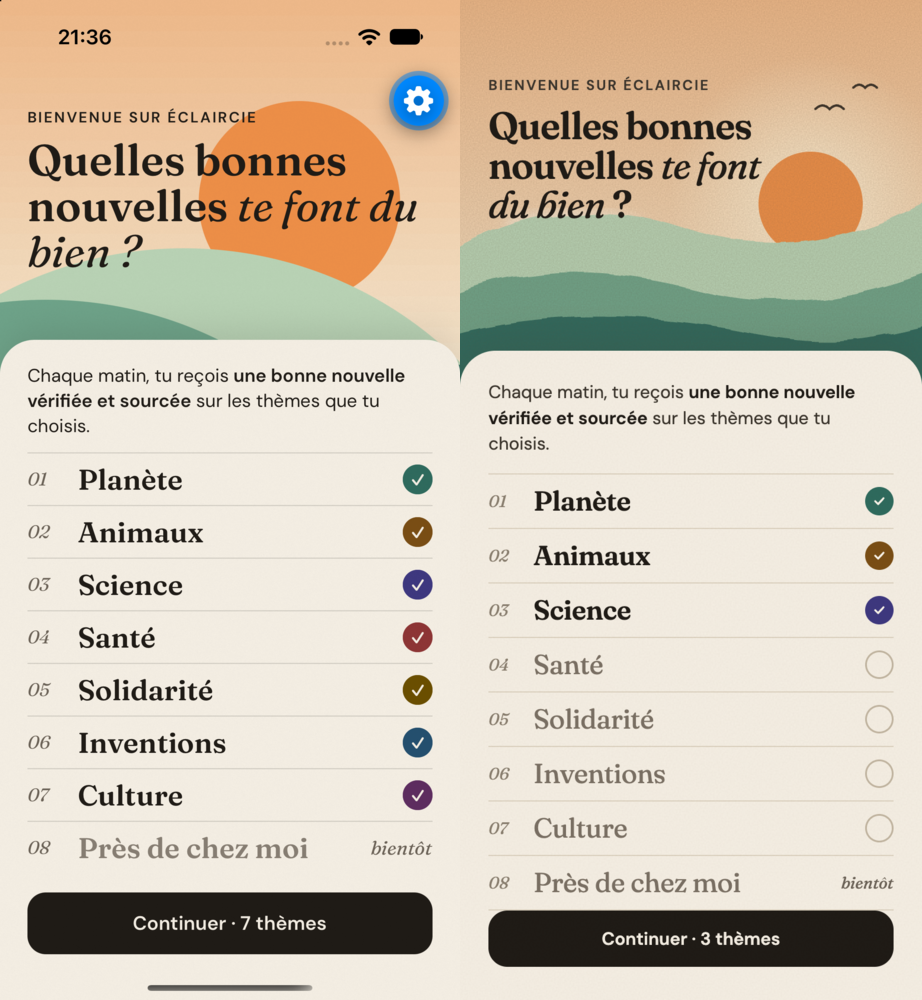
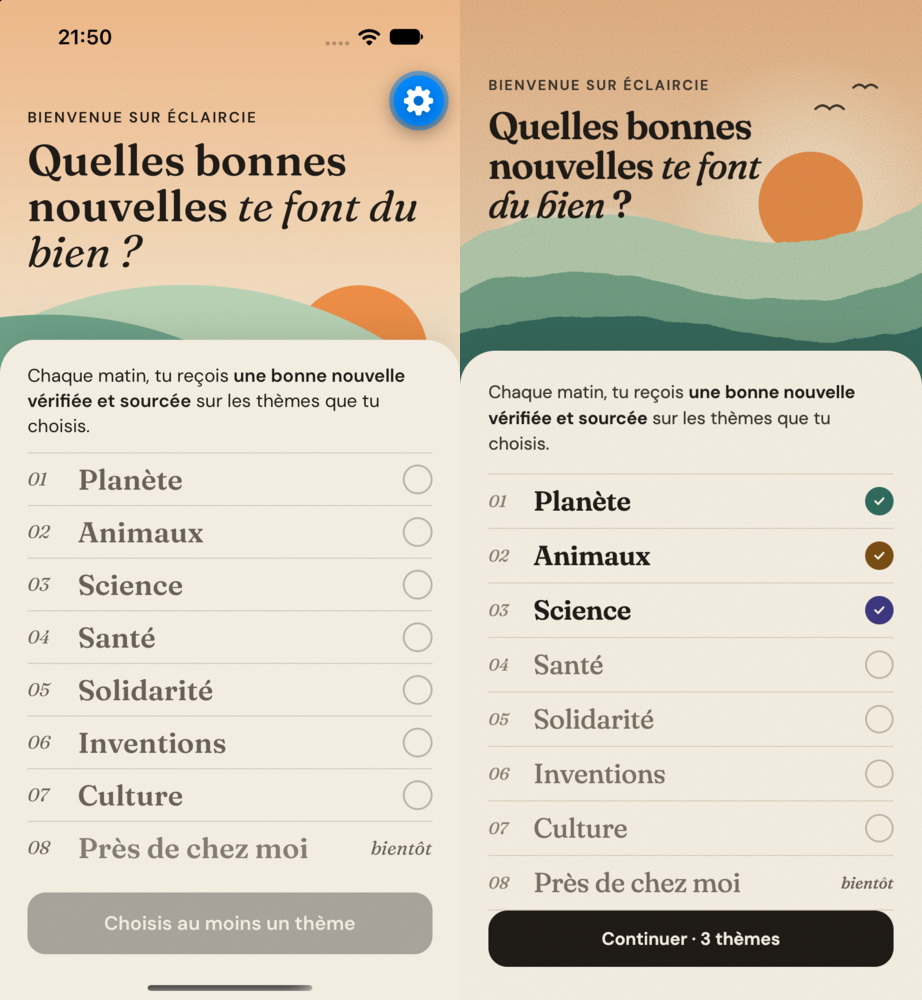
onboarding : aucun thème coché au départ, soleil sous le titre, palette du dernier thème coché
- Bouton « Choisis au moins un thème » désactivé à zéro, puis « Continuer · N thème(s) ».
- Le soleil du bandeau se cale sous le titre mesuré, à droite, et se couche derrière les collines,
  quelle que soit la hauteur d'écran ; les collines suivent.
- Le ciel prend la palette du dernier thème coché ; décocher revient au précédent, sinon la palette
  par défaut (logique pure testée).
- Petits écrans (iPhone SE vérifié) : la liste défile dans la feuille, le bouton reste fixé en bas.
- EXPO_PUBLIC_DEMO_ONBOARDING=auto joue le parcours seul pour les captures.

diff --git a/app/src/screens/onboarding/OnboardingFlow.tsx b/app/src/screens/onboarding/OnboardingFlow.tsx
@@ -1,7 +1,7 @@
-import { useState } from "react";
+import { useEffect, useRef, useState } from "react";
 import { Alert } from "react-native";
 import { requestNotificationPermission, scheduleDailyNotification } from "@/lib/notifications.ts";
-import { DEFAULT_NOTIFY, toggleTheme, validateProfile } from "@/lib/onboarding.ts";
+import { DEFAULT_NOTIFY, paletteThemeId, toggleTheme, validateProfile } from "@/lib/onboarding.ts";
 import { deviceTimezone, saveProfile } from "@/lib/profile.ts";
 import type { Theme } from "@/types.ts";
 import { ThemesStep } from "./ThemesStep.tsx";
@@ -10,32 +10,35 @@ import { TimeStep } from "./TimeStep.tsx";
 interface Props {
   userId: string;
   themes: readonly Theme[];
-  /** Profil existant (variable de dev) : la sélection repart de lui. */
-  initial?: { themes: readonly string[]; hour: number; minute: number } | undefined;
   /** Étape de départ (variable de dev pour capturer l'écran 2 directement). */
   initialStep?: "themes" | "time";
+  /** Démonstration : joue le parcours tout seul (coches, décoche, heure, validation). */
+  autoplay?: boolean;
   onDone: () => void;
 }
 
+/** Scénario de démonstration : [délai en ms, action]. */
+type Scripted = (actions: { toggle: (index: number) => void; next: () => void; hour: (hour: number) => void; confirm: () => void }) => void;
+const AUTOPLAY: [number, Scripted][] = [
+  [1200, (a) => a.toggle(0)], [1900, (a) => a.toggle(2)], [2600, (a) => a.toggle(1)], [3400, (a) => a.toggle(2)],
+  [4400, (a) => a.next()], [5600, (a) => a.hour(9)], [6800, (a) => a.confirm()],
+];
+
 /**
- * Onboarding (écrans 1 et 2) : choix des thèmes, heure du rendez-vous, puis autorisation des
- * notifications À CE MOMENT-LÀ, programmation locale et écriture du profil. Un refus ne bloque pas.
+ * Onboarding (écrans 1 et 2) : choix des thèmes (aucun coché au départ), heure du rendez-vous, puis
+ * autorisation des notifications À CE MOMENT-LÀ, programmation locale et écriture du profil.
+ * Un refus ne bloque pas.
  */
-export function OnboardingFlow({ userId, themes, initial, initialStep = "themes", onDone }: Props) {
+export function OnboardingFlow({ userId, themes, initialStep = "themes", autoplay = false, onDone }: Props) {
   const [step, setStep] = useState<"themes" | "time">(initialStep);
-  const [selected, setSelected] = useState<readonly string[]>(initial?.themes ?? []);
-  const [lastTouched, setLastTouched] = useState<Theme | null>(null);
-  const [time, setTime] = useState({ hour: initial?.hour ?? DEFAULT_NOTIFY.hour, minute: initial?.minute ?? DEFAULT_NOTIFY.minute });
+  const [selected, setSelected] = useState<readonly string[]>([]);
+  const [time, setTime] = useState<{ hour: number; minute: number }>({ ...DEFAULT_NOTIFY });
   const [busy, setBusy] = useState(false);
 
-  const firstSelected = themes.find((t) => selected.includes(t.id));
-  const palette = (lastTouched ?? firstSelected ?? themes[0])?.palette;
-  if (!palette) return null;
+  const paletteId = paletteThemeId(selected, themes[0]?.id);
+  const palette = themes.find((t) => t.id === paletteId)?.palette;
 
-  const toggle = (theme: Theme) => {
-    setSelected((current) => toggleTheme(current, theme));
-    setLastTouched(theme);
-  };
+  const toggle = (theme: Theme) => setSelected((current) => toggleTheme(current, theme));
 
   const confirm = async () => {
     const validation = validateProfile({ themes: selected, ...time, timezone: deviceTimezone() }, themes);
@@ -56,6 +59,24 @@ export function OnboardingFlow({ userId, themes, initial, initialStep = "themes"
     }
   };
 
+  // Le scénario de démonstration lit toujours la version courante de confirm (sinon fermeture obsolète).
+  const latest = useRef(confirm);
+  latest.current = confirm;
+  useEffect(() => {
+    if (!autoplay) return;
+    const selectable = themes.filter((t) => t.active && !t.coming_soon);
+    const timers = AUTOPLAY.map(([delay, run]) => setTimeout(() => run({
+      toggle: (index) => { const theme = selectable[index]; if (theme) toggle(theme); },
+      next: () => setStep("time"),
+      hour: (hour) => setTime((t) => ({ ...t, hour })),
+      confirm: () => void latest.current(),
+    }), delay));
+    return () => timers.forEach(clearTimeout);
+    // Le scénario ne dépend que du montage.
+    // eslint-disable-next-line react-hooks/exhaustive-deps
+  }, [autoplay]);
+
+  if (!palette) return null;
   if (step === "themes") {
     return <ThemesStep themes={themes} selected={selected} palette={palette} onToggle={toggle} onContinue={() => setStep("time")} />;
   }

diff --git a/app/app/onboarding.tsx b/app/app/onboarding.tsx
@@ -2,14 +2,13 @@ import { useRouter } from "expo-router";
 import { useEffect, useState } from "react";
 import { ActivityIndicator, StyleSheet, Text, View } from "react-native";
 import { bootstrap, type Bootstrap } from "@/lib/bootstrap.ts";
-import { parseNotifyTime } from "@/lib/onboarding.ts";
 import { OnboardingFlow } from "@/screens/onboarding/OnboardingFlow.tsx";
 import { colors, space, type } from "@/theme/tokens.ts";
 import { PaperTexture } from "@/ui/PaperTexture.tsx";
 
 type State = { status: "loading" } | { status: "ready"; boot: Bootstrap } | { status: "error"; message: string };
 
-/** Écrans 1 et 2. Variable de dev EXPO_PUBLIC_DEMO_ONBOARDING=show|time : rejoue l'onboarding (profil existant pré-rempli), `time` ouvre directement l'écran 2. */
+/** Écrans 1 et 2. Variable de dev EXPO_PUBLIC_DEMO_ONBOARDING=show|time|auto : rejoue l'onboarding, `time` ouvre l'écran 2, `auto` joue le parcours seul. */
 export default function Onboarding() {
   const router = useRouter();
   const [state, setState] = useState<State>({ status: "loading" });
@@ -20,10 +19,9 @@ export default function Onboarding() {
   }, []);
 
   if (state.status === "ready") {
-    const { user, themes, profile } = state.boot;
-    const initial = profile ? { themes: profile.themes, ...parseNotifyTime(profile.notify_time) } : undefined;
-    const initialStep = process.env.EXPO_PUBLIC_DEMO_ONBOARDING === "time" ? "time" : "themes";
-    return <OnboardingFlow userId={user.id} themes={themes} initial={initial} initialStep={initialStep} onDone={() => router.replace("/")} />;
+    const { user, themes } = state.boot;
+    const demo = process.env.EXPO_PUBLIC_DEMO_ONBOARDING;
+    return <OnboardingFlow userId={user.id} themes={themes} initialStep={demo === "time" ? "time" : "themes"} autoplay={demo === "auto"} onDone={() => router.replace("/")} />;
   }
   return (
     <View style={styles.center}>

diff --git a/app/src/screens/onboarding/OnboardingFrame.tsx b/app/src/screens/onboarding/OnboardingFrame.tsx
@@ -1,11 +1,11 @@
-import type { ReactNode } from "react";
+import { useState, type ReactNode } from "react";
 import { Pressable, StyleSheet, Text, View, useWindowDimensions } from "react-native";
 import { useSafeAreaInsets } from "react-native-safe-area-context";
 import { hapticTap } from "@/lib/haptics.ts";
 import { colors, radius, sizes, space, type, type Palette } from "@/theme/tokens.ts";
 import { CrossfadeSky } from "@/ui/CrossfadeSky.tsx";
 import { PaperTexture } from "@/ui/PaperTexture.tsx";
-import { BANNER_SKY } from "@/ui/Sky.tsx";
+import { bannerSky } from "@/ui/Sky.tsx";
 import { sheetStyle } from "../DailyStory.tsx";
 
 /** Part de l'écran occupée par le bandeau de ciel (maquette 01). */
@@ -31,12 +31,16 @@ export function OnboardingFrame({ palette, caption, titleMain, titleAccent, cta,
   const { height } = useWindowDimensions();
   const insets = useSafeAreaInsets();
   const bannerHeight = Math.round(height * BANNER_SHARE) + radius.sheet;
+  const titleTop = insets.top + space.xl;
+  const [titleHeight, setTitleHeight] = useState(0);
+  // Le soleil se cale sous le titre mesuré : il ne passe jamais derrière le texte.
+  const layout = bannerSky(bannerHeight, titleTop + titleHeight + space.xs);
   return (
     <View style={styles.screen}>
       <View style={[styles.banner, { height: bannerHeight }]}>
-        <CrossfadeSky palette={palette} layout={BANNER_SKY} />
+        <CrossfadeSky palette={palette} layout={layout} />
       </View>
-      <View style={[styles.titleBlock, { top: insets.top + space.xl }]} pointerEvents="none">
+      <View style={[styles.titleBlock, { top: titleTop }]} pointerEvents="none" onLayout={(e) => setTitleHeight(e.nativeEvent.layout.height)}>
         <Text style={[type.caption, styles.caption]}>{caption}</Text>
         <Text style={styles.title}>
           <Text style={[type.title, styles.titleText]}>{titleMain}</Text>

diff --git a/app/src/ui/Sky.tsx b/app/src/ui/Sky.tsx
@@ -13,15 +13,28 @@ const BANDS = 24;
 const HILL = 700;
 
 export interface SkyLayout {
-  sun: { top: `${number}%`; right: `${number}%`; size: number };
+  /** `top` en pourcentage du cadre ou en points (onboarding : calculé sous le titre). */
+  sun: { top: `${number}%` | number; right: `${number}%`; size: number };
   /** Hauteur à laquelle chaque colline (claire, moyenne, accent) dépasse du bas. */
   hills: [number, number, number];
 }
 
 /** Plein écran (Nouvelle du jour, Arrivée). */
 export const FULL_SKY: SkyLayout = { sun: { top: "36%", right: "12%", size: 150 }, hills: [190, 125, 70] };
-/** Bandeau de l'onboarding (maquette 01) : soleil plus grand, collines basses. */
-export const BANNER_SKY: SkyLayout = { sun: { top: "27%", right: "13%", size: 176 }, hills: [110, 65, 30] };
+/** Taille du soleil du bandeau d'onboarding et écart entre ses collines. */
+export const BANNER_SUN = 120;
+const BANNER_HILL_GAP = 26;
+
+/**
+ * Bandeau de l'onboarding (maquette 01) : le soleil se place SOUS la zone du titre, à droite, et les
+ * collines commencent au tiers du soleil pour qu'il se couche derrière elles, quelle que soit la hauteur.
+ */
+export function bannerSky(bannerHeight: number, titleBottom: number): SkyLayout {
+  const sunTop = titleBottom;
+  const hillTop = Math.min(bannerHeight - 3 * BANNER_HILL_GAP, sunTop + BANNER_SUN * 0.35);
+  const rise = Math.max(3 * BANNER_HILL_GAP, bannerHeight - hillTop);
+  return { sun: { top: sunTop, right: "7%", size: BANNER_SUN }, hills: [rise, rise - BANNER_HILL_GAP, rise - 2 * BANNER_HILL_GAP] };
+}
 
 export function Sky({ palette, veil, layout = FULL_SKY }: { palette: Palette; veil?: ReactNode; layout?: SkyLayout }) {
   const { sun, hills } = layout;

diff --git a/app/src/lib/__tests__/onboarding.test.ts b/app/src/lib/__tests__/onboarding.test.ts
@@ -1,4 +1,4 @@
-import { continueLabel, formatHour, nextTrigger, parseNotifyTime, toNotifyTime, toggleTheme, validateProfile, type OnboardingTheme } from "../onboarding.ts";
+import { continueLabel, formatHour, nextTrigger, paletteThemeId, parseNotifyTime, toNotifyTime, toggleTheme, validateProfile, type OnboardingTheme } from "../onboarding.ts";
 
 const THEMES: OnboardingTheme[] = [
   { id: "planete", label: "Planète", active: true, coming_soon: false },
@@ -23,9 +23,19 @@ describe("toggleTheme", () => {
 
 describe("continueLabel", () => {
   it("accorde le nombre de thèmes", () => {
-    expect(continueLabel(0)).toBe("Continuer");
+    expect(continueLabel(0)).toBe("Choisis au moins un thème");
     expect(continueLabel(1)).toBe("Continuer · 1 thème");
     expect(continueLabel(3)).toBe("Continuer · 3 thèmes");
+  });
+});
+
+describe("paletteThemeId", () => {
+  it("suit le dernier thème coché, revient au précédent quand on décoche, sinon la palette par défaut", () => {
+    expect(paletteThemeId([], "planete")).toBe("planete");
+    expect(paletteThemeId(["science"], "planete")).toBe("science");
+    expect(paletteThemeId(["science", "animaux"], "planete")).toBe("animaux");
+    expect(paletteThemeId(toggleTheme(["science", "animaux"], THEMES[1]!), "planete")).toBe("animaux");
+    expect(paletteThemeId(toggleTheme(["science", "animaux"], { id: "animaux", label: "Animaux", active: true, coming_soon: false }), "planete")).toBe("science");
   });
 });
 

diff --git a/app/src/lib/onboarding.ts b/app/src/lib/onboarding.ts
@@ -21,6 +21,14 @@ export const ONBOARDING_COPY = {
 } as const;
 
 /** Heure par défaut du rendez-vous (spec §8) et pas des minutes du sélecteur. */
+/**
+ * Palette du ciel : celle du dernier thème COCHÉ (la sélection garde l'ordre des coches) ; décocher
+ * revient au thème coché précédent ; sans sélection, la palette par défaut (premier thème).
+ */
+export function paletteThemeId(selected: readonly string[], fallback: string | undefined): string | undefined {
+  return selected[selected.length - 1] ?? fallback;
+}
+
 export const DEFAULT_NOTIFY = { hour: 8, minute: 0 } as const;
 export const MINUTE_STEP = 15;
 
@@ -35,9 +43,9 @@ export function toggleTheme(selected: readonly string[], theme: OnboardingTheme)
   return selected.includes(theme.id) ? selected.filter((id) => id !== theme.id) : [...selected, theme.id];
 }
 
-/** « Continuer · 3 thèmes », « Continuer · 1 thème », « Continuer » à zéro. */
+/** « Continuer · 3 thèmes », « Continuer · 1 thème », « Choisis au moins un thème » à zéro. */
 export function continueLabel(count: number): string {
-  if (count <= 0) return "Continuer";
+  if (count <= 0) return "Choisis au moins un thème";
   return `Continuer · ${count} thème${count > 1 ? "s" : ""}`;
 }
 

diff --git a/app/app/index.tsx b/app/app/index.tsx
@@ -20,11 +20,11 @@ type State =
  * Entrée : un nouvel utilisateur (sans profil) passe par l'onboarding ; sinon Arrivée du jour à la
  * première ouverture de la journée (ou depuis la notification), puis la Nouvelle du jour.
  * Démonstration : EXPO_PUBLIC_DEMO_ARRIVAL=show force l'arrivée, =auto lance aussi la transition ;
- * EXPO_PUBLIC_DEMO_ONBOARDING=show|time rejoue l'onboarding (profil existant pré-rempli ; `time` ouvre l'écran 2).
+ * EXPO_PUBLIC_DEMO_ONBOARDING=show|time|auto rejoue l'onboarding (`time` ouvre l'écran 2, `auto` joue le parcours seul).
  */
 export default function Index() {
   const demo = process.env.EXPO_PUBLIC_DEMO_ARRIVAL;
-  const demoOnboarding = ["show", "time"].includes(process.env.EXPO_PUBLIC_DEMO_ONBOARDING ?? "");
+  const demoOnboarding = ["show", "time", "auto"].includes(process.env.EXPO_PUBLIC_DEMO_ONBOARDING ?? "");
   const [state, setState] = useState<State>({ status: "loading" });
   const fromNotification = opensArrival(useLastNotificationResponse());
   useEffect(() => {
